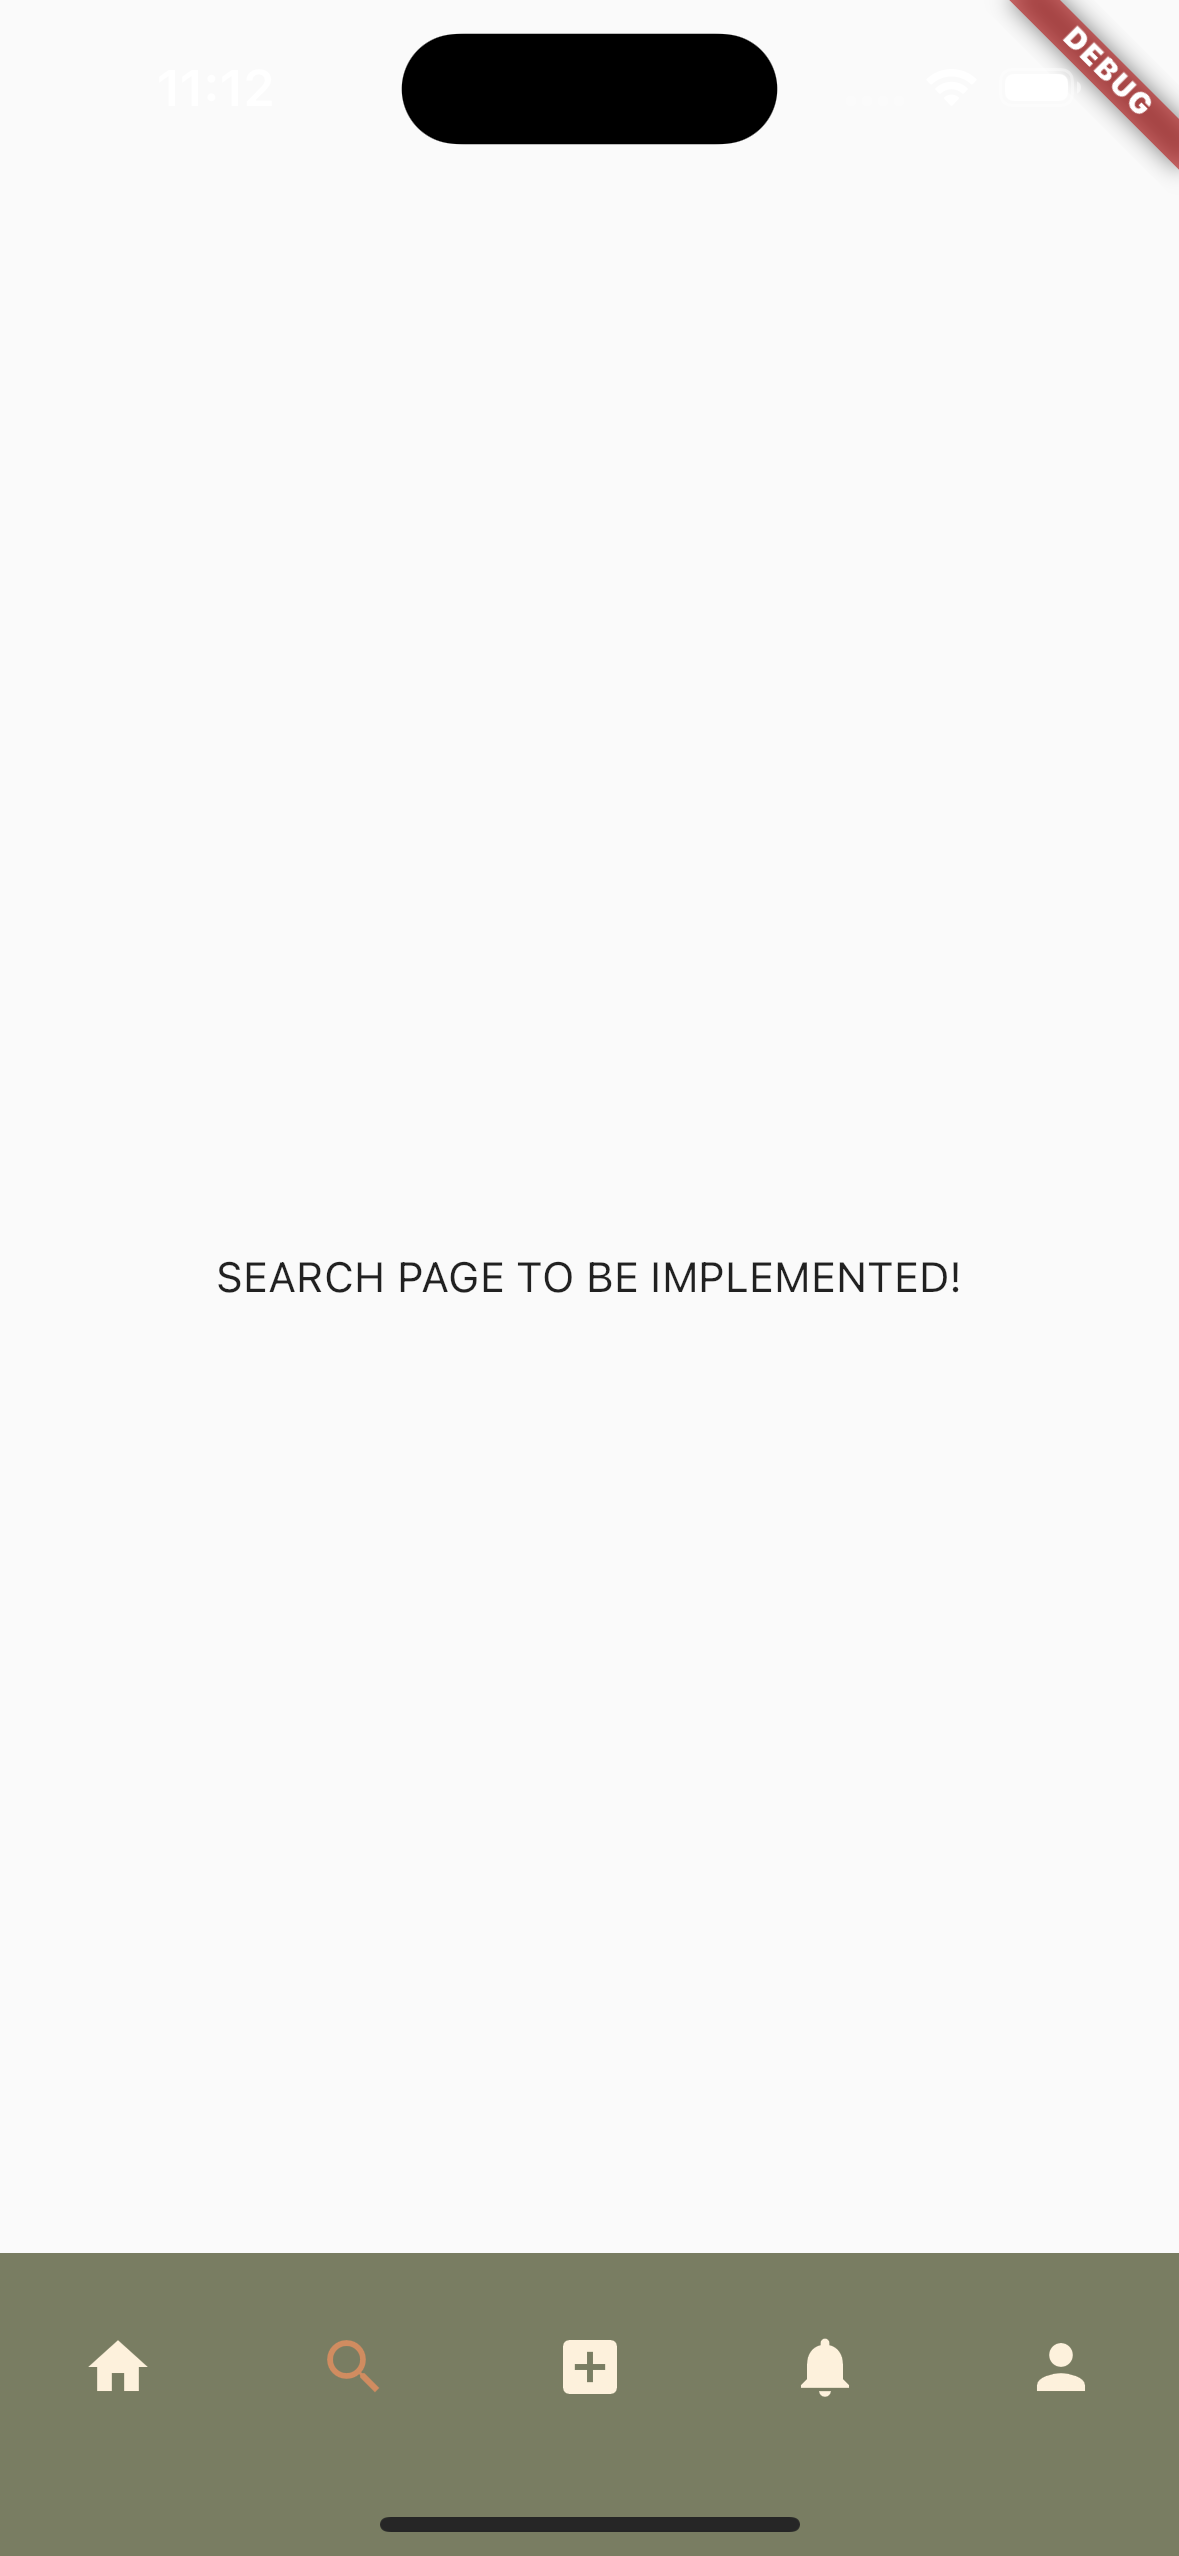
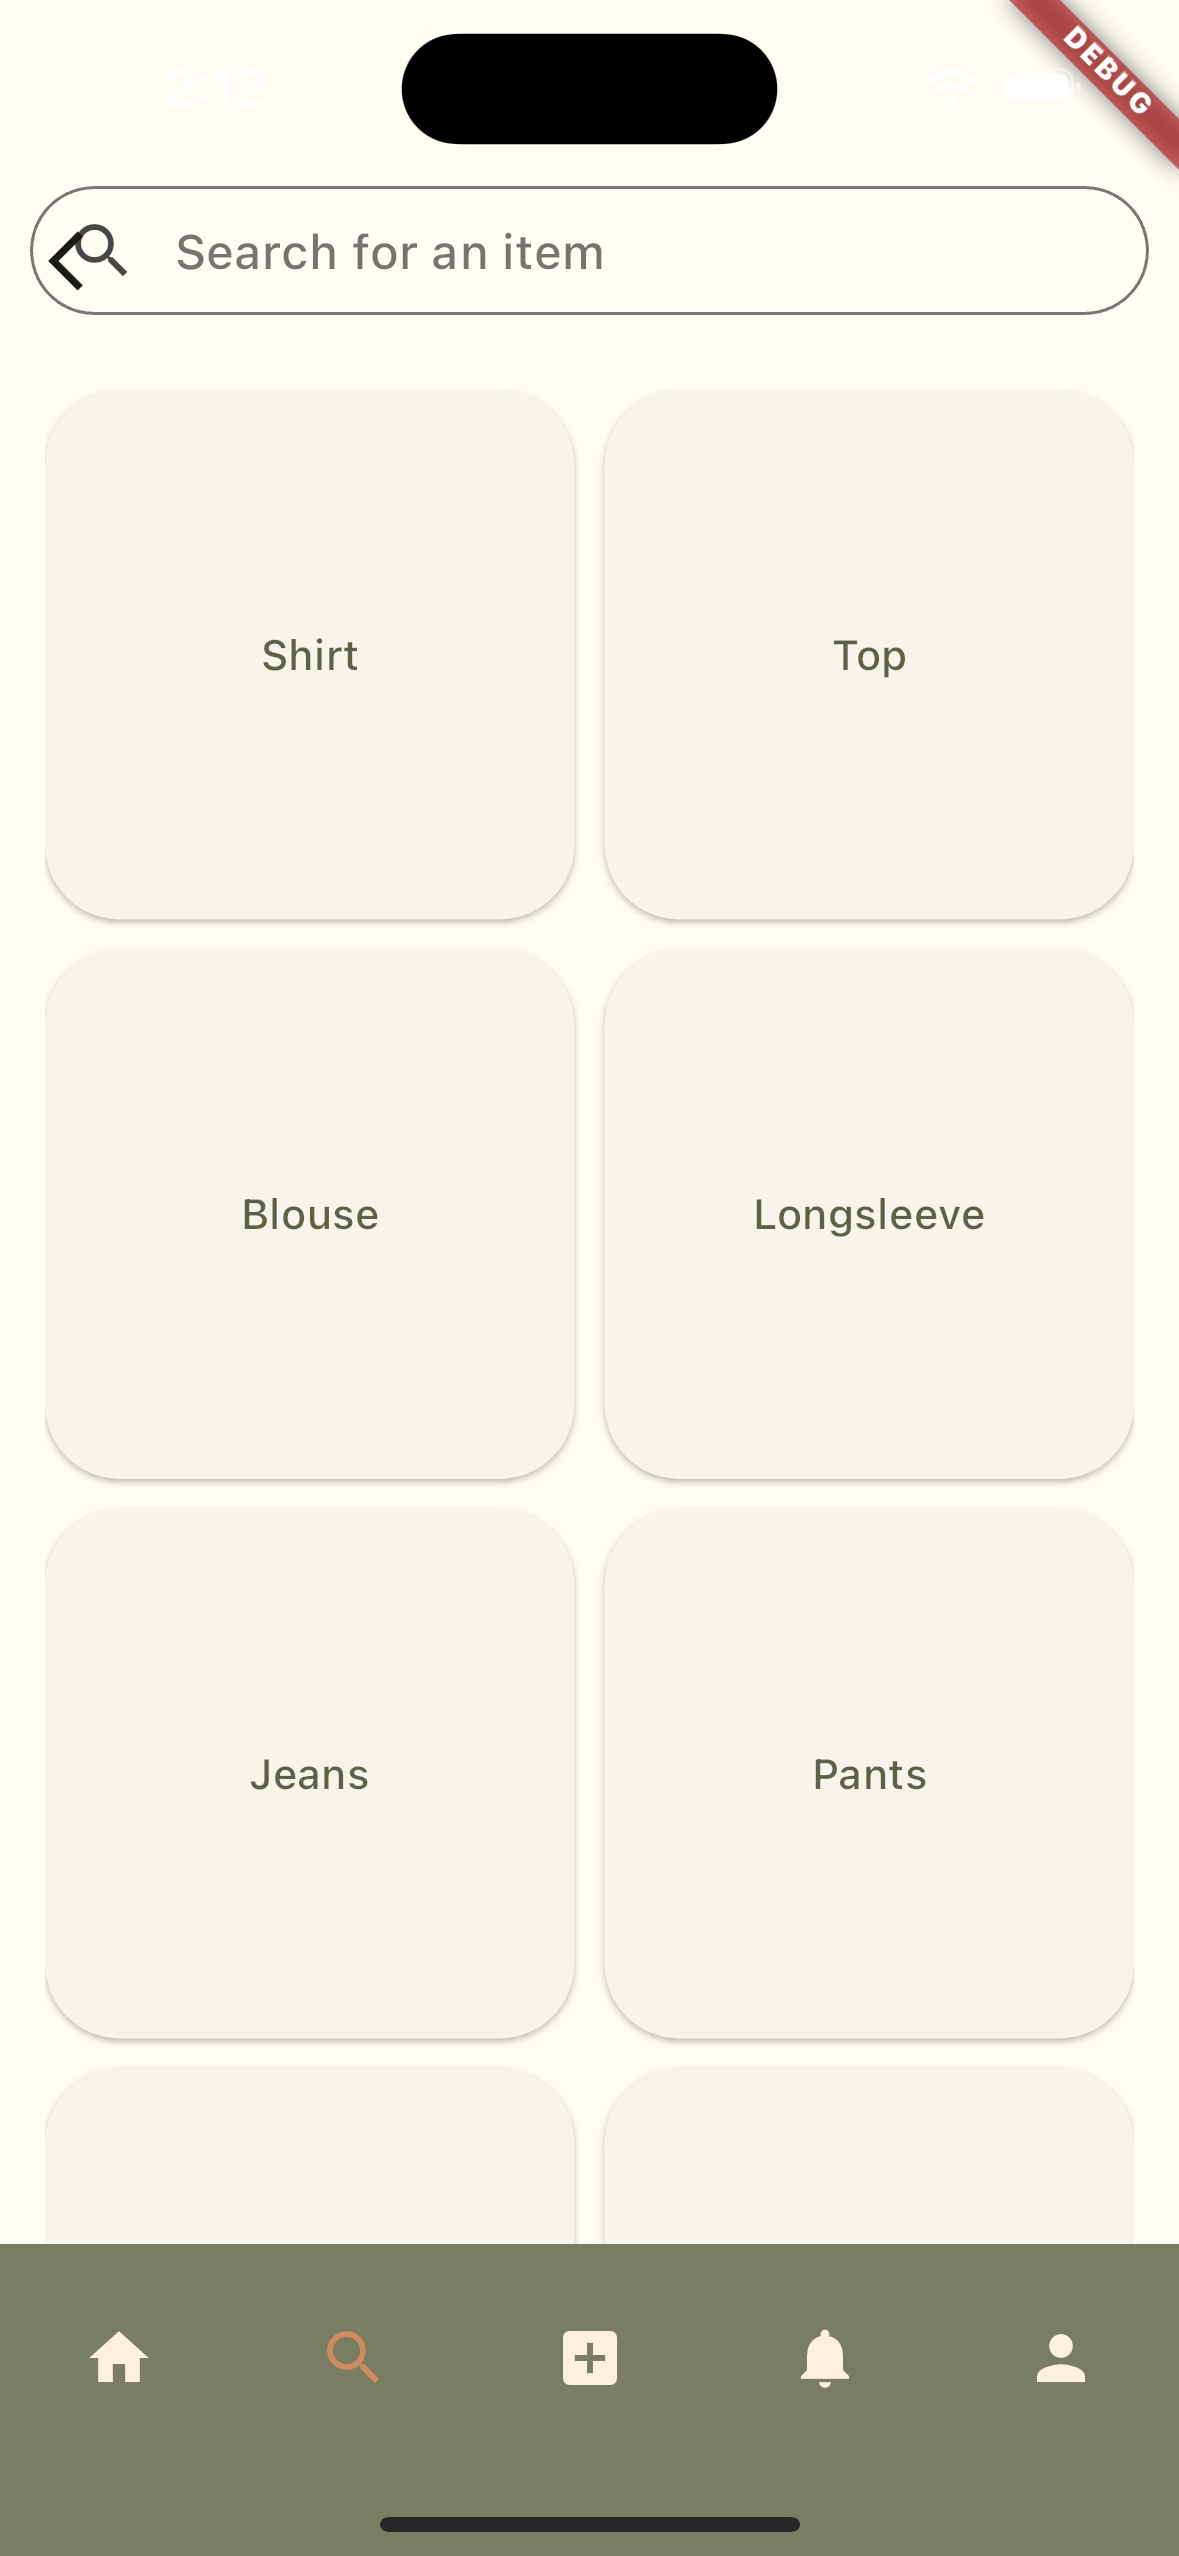
updated mockup and images for phase 5

diff --git a/docs/getting-started/usage.md b/docs/getting-started/usage.md
@@ -10,7 +10,7 @@ sidebar_position: 2
 <p style={{margin: "2vh 0px 2vh 0px", clear: "both"}}>
 <img className="mockup" src="/img/mockup/login.png"/> 
 
-As with all mobile apps, you will be asked to sign in and/or register when you download the app.
+As with all mobile apps, you will be asked to sign in and/or register when you download the app. During the sign up process, an email verification step will be requested.
 </p>
 
 <div style={{clear: "both"}}> </div>
@@ -53,13 +53,15 @@ There will be a similar onboarding process for businesses who wishes to register
 <img className="mockup" width="180vw" src="/img/mockup/home.png"/> 
 <img className="mockup" width="180vw" src="/img/mockup/home_swipe.png"/> 
 <img className="mockup" width="180vw" src="/img/mockup/search.png"/> 
+<img className="mockup" width="180vw" src="/img/mockup/filtered_search.png"/> 
 <img className="mockup" width="180vw" src="/img/mockup/upload.png"/> 
-<img className="mockup" width="180vw" src="/img/mockup/notif.png"/> 
+<img className="mockup" width="180vw" src="/img/mockup/msg_list.png"/> 
+<img className="mockup" width="180vw" src="/img/mockup/msg_chat.png"/> 
 <img className="mockup" width="180vw" src="/img/mockup/profile.png"/> 
 <img className="mockup" width="180vw" src="/img/mockup/settings.png"/> 
 
 <div className="mockup-p">
-Currently the mockup pages of the home screen is not fully implemented, but we have implemented a bottom menu bar and the home page.
+Currently most of the pages for the home screen is implemented, except for the upload item page.
 </div>
 
 <div style={{clear: "both"}}> </div>

diff --git a/docs/getting-started/changelog.md b/docs/getting-started/changelog.md
@@ -8,6 +8,19 @@ sidebar_position: 3
 
 All notable changes to this app will be documented below.
 
+## Phase 5: 2023-10-31
+### Added
+- Usage of Firebase, Freezed
+- Email verification when signing up
+- message list/chat mockup
+- Item preview page mockup
+- Resume setup process on app quit
+- Upload of a profile pic
+### Removed
+- Sign up as business users (temporary)
+- changing username (might be temporary?)
+
+
 ## Phase 4: 2023-10-31
 ### Added
 - Restructured the project's file structure to adhere to feature-first architecture
